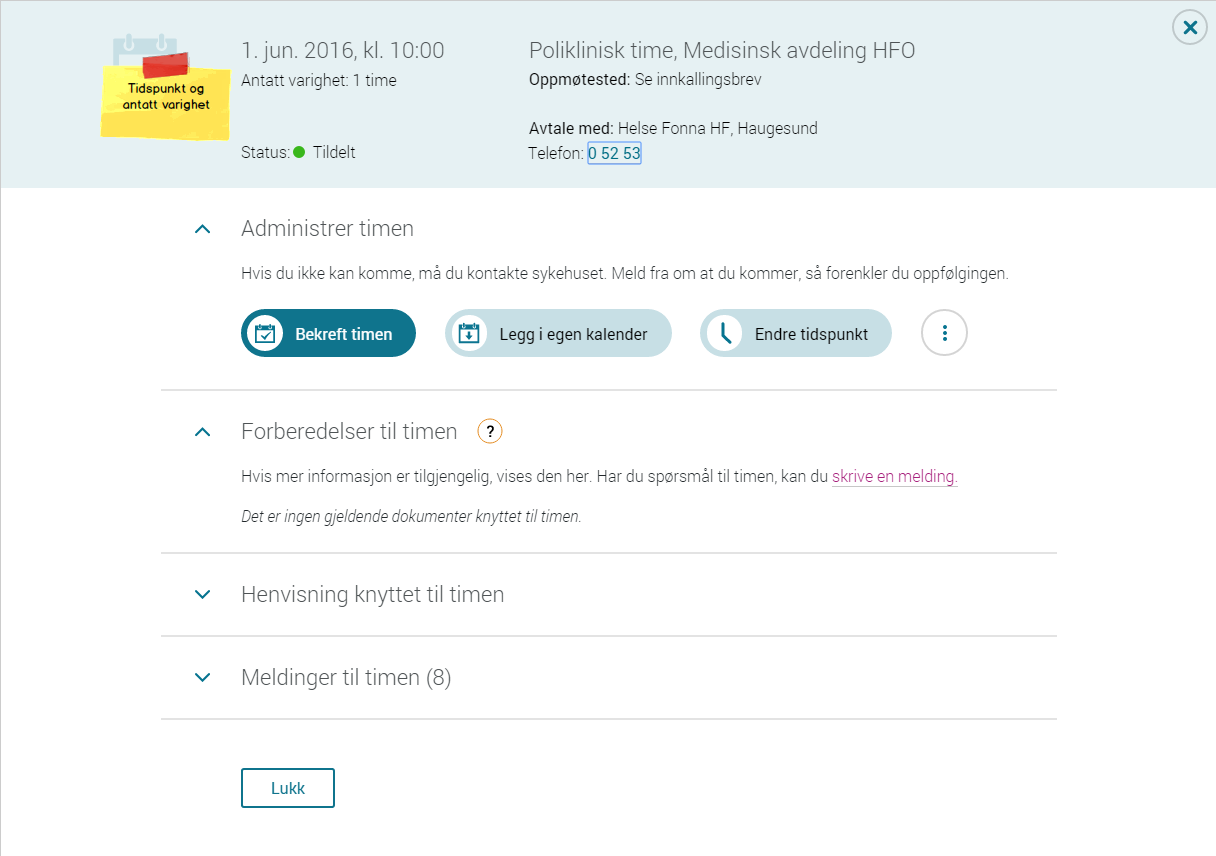
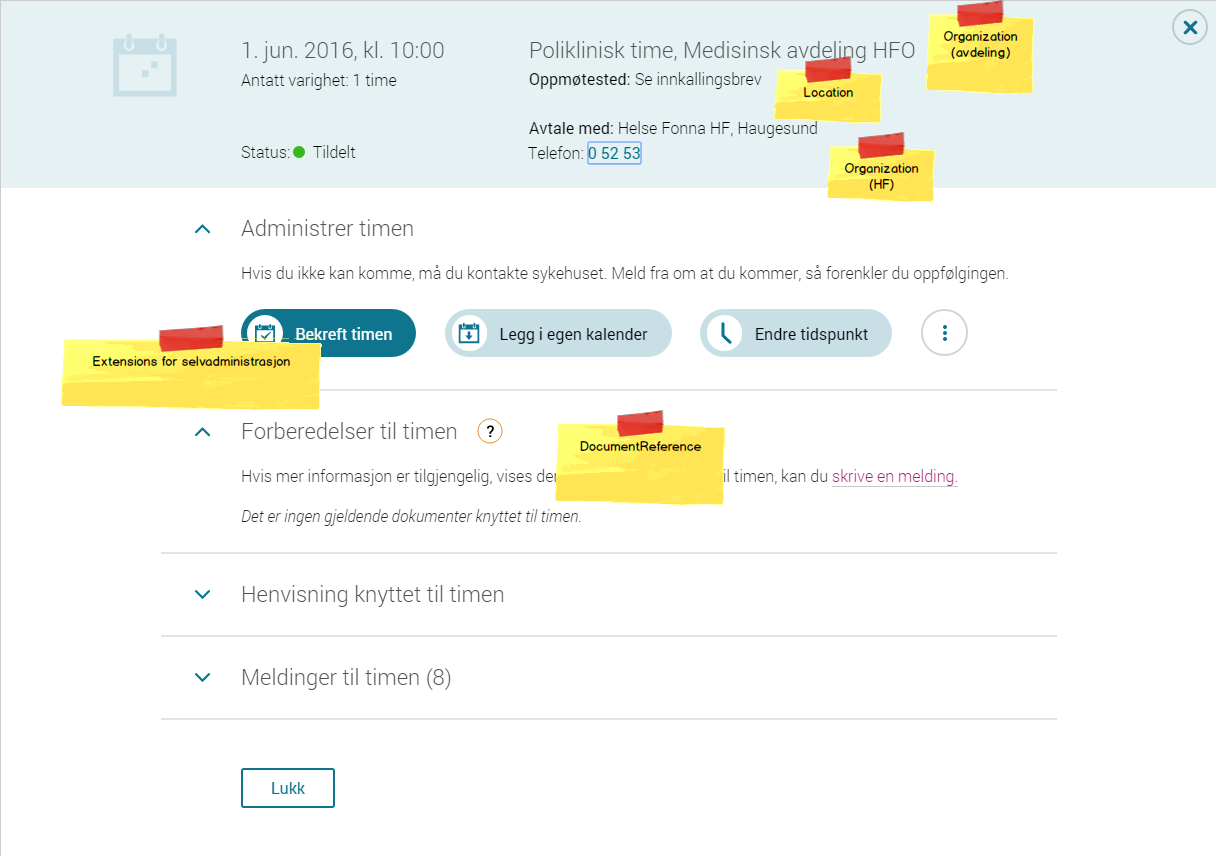
'ferdig'

diff --git a/create_example_bundle.py b/create_example_bundle.py
@@ -2,27 +2,61 @@ from lxml import etree as ET
 from datetime import datetime as dt
 import pytz
 
+from fhirlib import FHIRElement, value, wrap_in_entry, printprettyxml, add_subelements_from_dict
+
 
 TZ = pytz.timezone("Europe/Oslo")
 
 ldt = lambda *args: TZ.localize(dt(*args))
 
+ORGANIZATIONS = [
+    {
+        "name": "Nordlandssykehuset HF",
+        "phone": "95812112",
+    },
+
+    {
+        "name": "Finnmarkssykehuset HF",
+        "phone": "01234",
+    },
+
+    {
+        "name": "Medisinsk avdeling",
+        "orgref": "1",
+    },
+
+    {
+        "name": "Gastrokirurgisk avdeling",
+        "orgref": "2",
+    }
+]
+
 LOCATIONS = [
-    "Se innkallingsbrev",
-    "Medisinsk poliklinikk, Søndregate 18, STOKMARKNES",
-    "Beh.omr.K3 Bodø, Prinsensgt. 164, Bodø",
+    {
+        "name": "Se innkallingsbrev",
+        "orgref": "4",
+    },
+    {
+        "name": "Medisinsk poliklinikk, Søndregate 18, STOKMARKNES",
+        "orgref": "3",
+    },
+    {
+        "name": "Beh.omr.K3 Bodø, Prinsensgt. 164, Bodø",
+        "orgref": "3",
+
+    },
 ]
 
 DOCUMENTREFERENCES = [
     {
         "description": "Innkallingsbrev",
-        "encounterref": "2",
+        "encounterref": "1",
         "xdsdocid": "157222",
     },
 
     {
         "description": "Viktig informasjon før du kommer til timen",
-        "encounterref": "2",
+        "encounterref": "1",
         "xdsdocid": "164399",
     }
 ]
@@ -33,53 +67,49 @@ ENCOUNTERS = [
         "end": ldt(2016, 5, 3, 13, 0),
         "locationref": "2",
         "class": "outpatient" # inpatient, outpatient, ambulatory, emergency, home, field, daytime, virtual, other
+    },
+
+    {
+        "start": ldt(2016, 5, 4, 14),
+        "end": ldt(2016, 5, 4, 14, 30),
+        "locationref": "1",
+        "class": "inpatient",
+    },
+
+    {
+        "start": ldt(2016, 5, 12, 15),
+        "end": ldt(2016, 5, 12, 16),
+        "locationref": "3",
+        "class": "inpatient",
     }
 ]
 
-FHIR_NAMESPACE = "http://hl7.org/fhir"
-FHIR = "{" + FHIR_NAMESPACE + "}"
 
+def OrganizationElement(id, organization_dict):
+    retval = FHIRElement("Organization", id=value(id), name=value(organization_dict["name"]))
+    if "orgref" in organization_dict:
+        add_subelements_from_dict(retval, {"partOf": {"reference": value("Organization/{}".format(organization_dict["orgref"]))}})
+    if "phone" in organization_dict:
+        add_subelements_from_dict(retval, {"telecom": {"system": value("phone"), "value": value(organization_dict["phone"])}})
+    return retval
 
-def FHIRElement(resourcetype, **kwargs):
-    resource = ET.Element(FHIR + resourcetype, nsmap={None: FHIR_NAMESPACE})
-    add_subelements_from_dict(resource, kwargs)
-    return resource
-
-
-def add_subelements_from_dict(element, subelements_dict):
-    for k, v in subelements_dict.items():
-        if k.startswith("@"):
-            element.attrib[k[1:]] = v
-        else:
-            if k == "class_":
-                k = "class"
-            subelement = ET.SubElement(element, FHIR + k)
-            add_subelements_from_dict(subelement, v)
-        #add_subelements_from_dict(subelement, v)
-
-
-def printprettyxml(elmt):
-    print(prettyxml(elmt))
-
-
-def prettyxml(elmt):
-    return ET.tostring(elmt, encoding="unicode", pretty_print=True)
-
-
-def value(text):
-    return {"@value": text}
-
-
-def wrap_in_entry(resource):
-    entry = FHIRElement("entry")
-    resource_wrapper = FHIRElement("resource")
-    entry.append(resource_wrapper)
-    resource_wrapper.append(resource)
-    return entry
 
 bundle = FHIRElement("Bundle", type=value("searchset"))
 
-locations = [FHIRElement("Location", id=value(str(i + 1)), name=value(text)) for i, text in enumerate(LOCATIONS)]
+locations = [
+    FHIRElement(
+        "Location",
+        id=value(str(i + 1)),
+        name=value(location_dict["name"]),
+        managingOrganization={"reference": value("Organization/{}".format(location_dict["orgref"]))}
+    )
+    for i, location_dict in enumerate(LOCATIONS)
+]
+organizations = [
+    OrganizationElement(str(i+1), organization_dict)
+    for i, organization_dict in enumerate(ORGANIZATIONS)
+]
+
 encounters = [
     FHIRElement(
         "Encounter",
@@ -108,6 +138,7 @@ documentreferences = [
 #location = FHIRElement("Location", name=value(LOCATIONS[0]))
 bundle.extend(wrap_in_entry(encounter) for encounter in encounters)
 bundle.extend(wrap_in_entry(location) for location in locations)
+bundle.extend(wrap_in_entry(organization) for organization in organizations)
 bundle.extend(wrap_in_entry(dref) for dref in documentreferences)
 #printprettyxml(location)
 printprettyxml(bundle)

diff --git a/fhirlib.py b/fhirlib.py
@@ -1,0 +1,43 @@
+from lxml import etree as ET
+
+
+FHIR_NAMESPACE = "http://hl7.org/fhir"
+FHIR = "{" + FHIR_NAMESPACE + "}"
+
+
+def FHIRElement(resourcetype, **kwargs):
+    resource = ET.Element(FHIR + resourcetype, nsmap={None: FHIR_NAMESPACE})
+    add_subelements_from_dict(resource, kwargs)
+    return resource
+
+
+def add_subelements_from_dict(element, subelements_dict):
+    for k, v in subelements_dict.items():
+        if k.startswith("@"):
+            element.attrib[k[1:]] = v
+        else:
+            if k == "class_":
+                k = "class"
+            subelement = ET.SubElement(element, FHIR + k)
+            add_subelements_from_dict(subelement, v)
+        #add_subelements_from_dict(subelement, v)
+
+
+def printprettyxml(elmt):
+    print(prettyxml(elmt))
+
+
+def prettyxml(elmt):
+    return ET.tostring(elmt, encoding="unicode", pretty_print=True)
+
+
+def value(text):
+    return {"@value": text}
+
+
+def wrap_in_entry(resource):
+    entry = FHIRElement("entry")
+    resource_wrapper = FHIRElement("resource")
+    entry.append(resource_wrapper)
+    resource_wrapper.append(resource)
+    return entry

diff --git a/docs/index.rst b/docs/index.rst
@@ -6,7 +6,7 @@ FHIR for utveksling av informasjon om timer
 Bakgrunn
 ========
 
-Helsenorge har ønske om en rikere PULL-tjeneste for timer, og ønsker å benytte FHIR for dette.
+Helsenorge har ønske om en rikere PULL-tjeneste for timer.
 
 Dette dokumentet er innspill rundt bruk av FHIR-ressurser.
 
@@ -51,9 +51,9 @@ Det funksjonelle behovet på helsenorge
     * Oppmøtetidspunkt og varighet
     * Status ("Tildelt")
     * Type time ("Poliklinisk time") -
+    * Oppmøtested ("Se innkallingsbrev")
     * Avdeling ("Medisinsk avdeling HFO")
-    * Oppmøtested ("Se innkallingsbrev")
-    * Oppmøtested ("Se innkallingsbrev")
+    * HF ("Helse Fonna HF, Haugesund")
 
 
 Generell FHIR-server eller kun for timer?
@@ -83,8 +83,7 @@ Dette valget vil påvirke både hvem som kan lage tjenesten og hvilket omfang de
      - Mindre
 
 
-Noen ting det kan være nyttig å tenke på
-========================================
+Andre ting:
 
 * Det funksjonelle behovet kan være svært forskjellig fra en integrasjon til en annen
 * Derfor kan det være vanskelig å få til en generell FHIR-server som kan dekke alle behov
@@ -101,11 +100,18 @@ For å dekke det funksjonelle behovet benytter vi disse ressursene med felter:
  * Encounter.class: Type kontakt (inpatient, outpatient, ambulatory, emergency, home, field, daytime, virtual, other)
  * Encounter.period: Start- og slutt-tid
  * Encounter.location.location: Referanse til oppmøtested
- * Encounter.incomingReferral: Referanse til henvisning
+ * (Encounter.incomingReferral: Referanse til henvisning)
 
 * Location
 
  * Location.name: Oppmøtested
+ * Location.managingOrganization: Referanse til avdeling.
+
+* Organization
+
+ * Brukes for å modellere avdeling og HF.
+ * Organization.name: Avdelingens/HFets navn.
+ * Organization.partOf: Referanse til neste nivå (Organization)
 
 * DocumentReference
 
@@ -117,17 +123,3 @@ For å dekke det funksjonelle behovet benytter vi disse ressursene med felter:
    :language: xml
    :linenos:
 
-Div notater
-===========
-
-mol_molekyl_timeavtale: appointment-details-component.jsx
-
-"Antatt varighet" dersom
-
-Type time bestemmes ut fra appointment.CareLevel:
-    Amb(0)|Rtg(4)"infoHeaderPolyclinicAppointment": "Poliklinisk time",
-    Ss(1): "infoHeaderPolyclinicTreatment": "Poliklinisk behandling",
-    Imph(3): "infoHeaderHospitalization": "Innleggelse",
-    Alle andre: "infoHeaderTreatment": "Behandling",
-
-appointment.CareLevel
